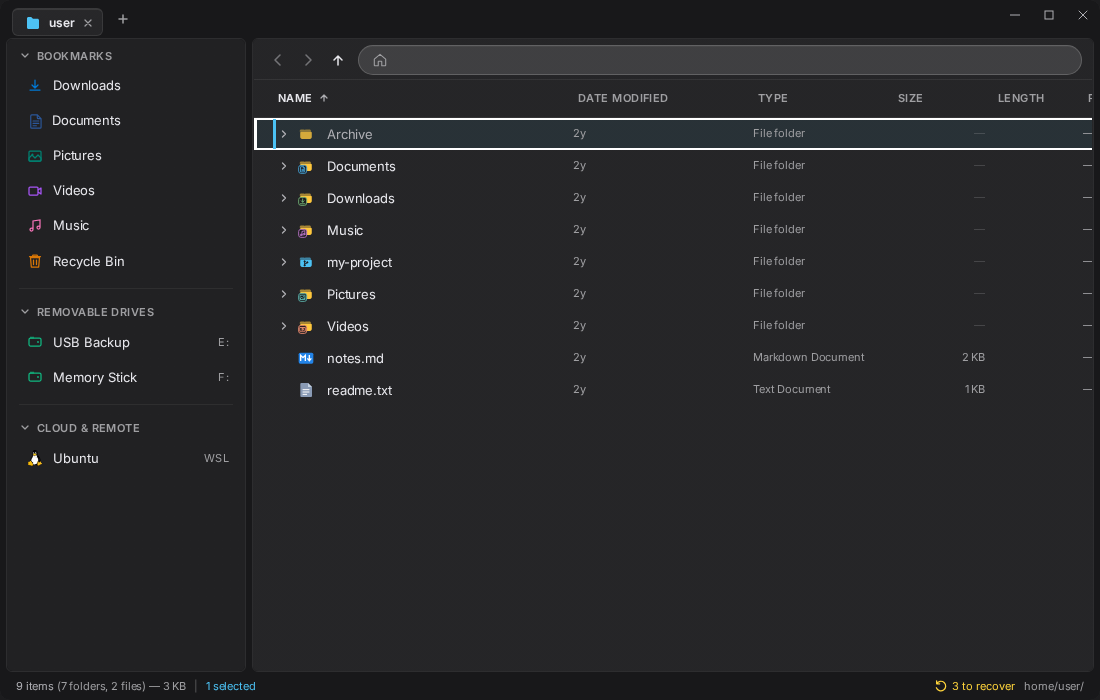
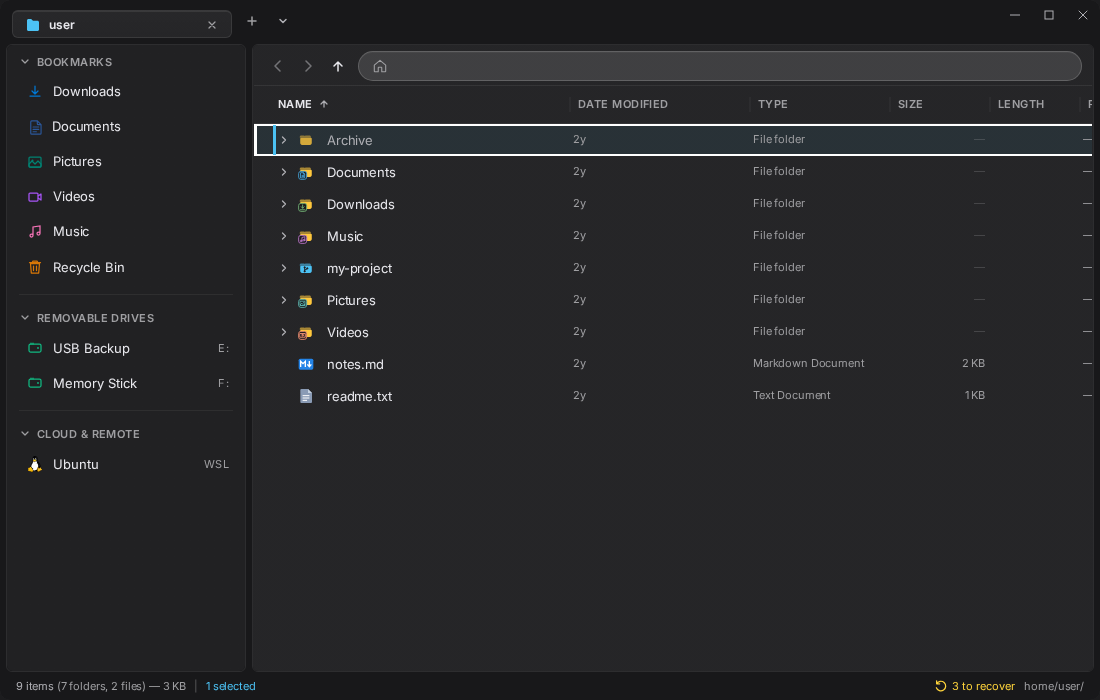
fix: Soft Cards keeps the card gap below the tab strip (#1848) (#1849)
* fix: Soft Cards keeps the card gap below the tab strip (#1848)

The panel area's top inset was 0, so the sidebar and pane cards sat flush
against the tab strip while every other edge had the 6px backdrop gap. The
top inset now uses --layout-gap, and the layout spec measures the gap.

* chore: screenshots for the Soft Cards top gap (#1848)

---------

diff --git a/e2e/layout-themes.spec.ts b/e2e/layout-themes.spec.ts
@@ -135,7 +135,14 @@ test.describe("Layout themes (#1306)", () => {
     expect(header).not.toBe("rgba(0, 0, 0, 0)");
     expect(header).not.toMatch(/rgba\(.*, 0\)$/);
     await expect(page.locator('[data-region="tab-fillet"]:visible')).toHaveCount(0);
+    // The cards sit a gap below the tab strip, not flush against it (#1848).
+    const tabBottom = await page.locator('[data-region="tab"][aria-selected="true"]:visible').evaluate(el => el.getBoundingClientRect().bottom);
+    for (const card of [".sidebar-container", '[data-region="panes"]:visible']) {
+      const top = await page.locator(card).first().evaluate(el => el.getBoundingClientRect().top);
+      expect(top - tabBottom).toBeGreaterThanOrEqual(6);
+    }
     await page.screenshot({ path: "screenshots/feat/compact-soft-cards-layouts/soft-cards-details.png" });
+    await page.screenshot({ path: "screenshots/fix/soft-cards-top-gap/soft-cards-top-gap.png", clip: { x: 0, y: 0, width: 520, height: 140 } });
 
     // A split turns each pane into its own card, separated by the gap.
     await page.evaluate(async () => {

diff --git a/src/lib/layouts/soft-cards.css b/src/lib/layouts/soft-cards.css
@@ -5,7 +5,8 @@
  * Built-in layout theme (#1548): a middle ground between Default and Floating
  * Islands. The sidebar, pane area and preview become opaque cards (6px
  * radius, 1px border, no shadow, no blur) separated by 6px of a slightly
- * darker window backdrop; title bar and status bar sit on that backdrop.
+ * darker window backdrop; title bar and status bar sit on that backdrop, and
+ * the same gap separates the cards from the tab strip (#1848).
  *
  * Written only against the layout contract (docs/layout-themes.md). Loaded
  * lazily and injected after all application CSS, like a user layout. The
@@ -18,7 +19,7 @@
 
 :root {
   --layout-gap: 6px;
-  --layout-inset: 0 6px 0 6px;
+  --layout-inset: var(--layout-gap) 6px 0 6px;
   --layout-radius: 6px;
   --layout-border: 1px solid var(--soft-cards-edge);
   --layout-shadow: none;
